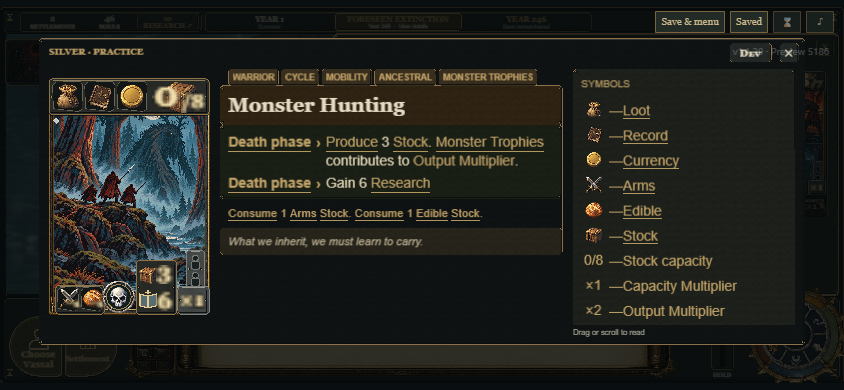
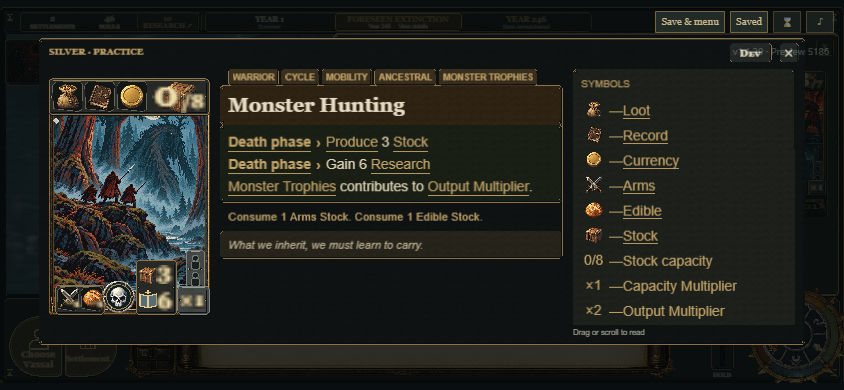
Separate passive keyword effects from timed activation rows

Changed region(s): [[0.2464, 0.3385, 0.6469, 0.6462]]

diff --git a/src/views/practice-reading-pixi.js b/src/views/practice-reading-pixi.js
@@ -72,14 +72,15 @@ export function addPracticeReading(parent, width, face, {fontSize = 28, onInspec
   y+=22;
   const activation=new PIXI.Graphics();root.addChildAt(activation,1);
   for (const effect of reading.effects) {
-    const timing=effect.timing && !reading.passive ? copy(root,effect.timing,pad,y,width-pad*2,fontSize,{fill:RELIC.gold,fontWeight:'bold'}) : null;
+    const passive=reading.passive||effect.passive===true;
+    const timing=effect.timing && !passive ? copy(root,effect.timing,pad,y,width-pad*2,fontSize,{fill:RELIC.gold,fontWeight:'bold'}) : null;
     const offset=timing ? timing.width+14 : 0;
     // Long phase names get their own line; seasons remain inline with yields.
     const inline=offset<width*.4;
     if(timing&&!inline)y+=timing.height+3;
     const arrowX=pad+(inline?offset:0);
-    if(!reading.passive)copy(root,'›',arrowX,y,20,fontSize,{fill:RELIC.gold,fontWeight:'bold'});
-    const textX=arrowX+(reading.passive?0:28);
+    if(!passive)copy(root,'›',arrowX,y,20,fontSize,{fill:RELIC.gold,fontWeight:'bold'});
+    const textX=arrowX+(passive?0:28);
     const line=copy(root,effect.text,textX,y,width-pad-textX,fontSize);
     y+=Math.max(line.height,inline?(timing?.height??0):0)+10;
   }

diff --git a/src/model/gamepiece-presentation.js b/src/model/gamepiece-presentation.js
@@ -119,7 +119,7 @@ export function getGamepieceFace(state, kind, id, tier = 'bronze', { evaluation 
   const keywordReading=keywordPrototypeReading(state,(state?.world?.sites??[]).find(site=>site.detailedState===settlement)?.regionId??state?.civilization?.capitalRegionId,def);
   if(keywordReading) {
     reading.effects=keywordReading.inMultiplierPool
-      ?reading.effects.map((effect,index)=>index?effect:{...effect,text:effect.text+'. '+keywordReading.text})
+      ?[...reading.effects,{timing:'',passive:true,text:keywordReading.text}]
       :reading.effects.slice(0,1).map(effect=>({...effect,text:effect.text+' + '+keywordReading.name+'.'}));
     if(keywordReading.lens)reading.effects.push({timing:'Birth phase',text:keywordReading.lens});
     reading.keyword=keywordReading;

diff --git a/docs/prototypes/keywords-classes/multiplier-a/README.md b/docs/prototypes/keywords-classes/multiplier-a/README.md
@@ -29,6 +29,8 @@ authorize production integration, a PR, publication, or a complete class kit.
   Its normal ledger identifies Economic Regions or Monster Trophies as a source.
   Card inspection links the named keyword to its definition and current count.
   The ER/MT tracker strips have been removed from card art across all options.
+- The passive multiplier rule has its own untimed line in the card reading,
+  without a phase label or activation arrow. Timed yields remain separate.
 
 The class associations and +1 coefficient remain proposals. This revision serves
 **pillar 1, powerful interacting engines**, by composing with an established pool,
